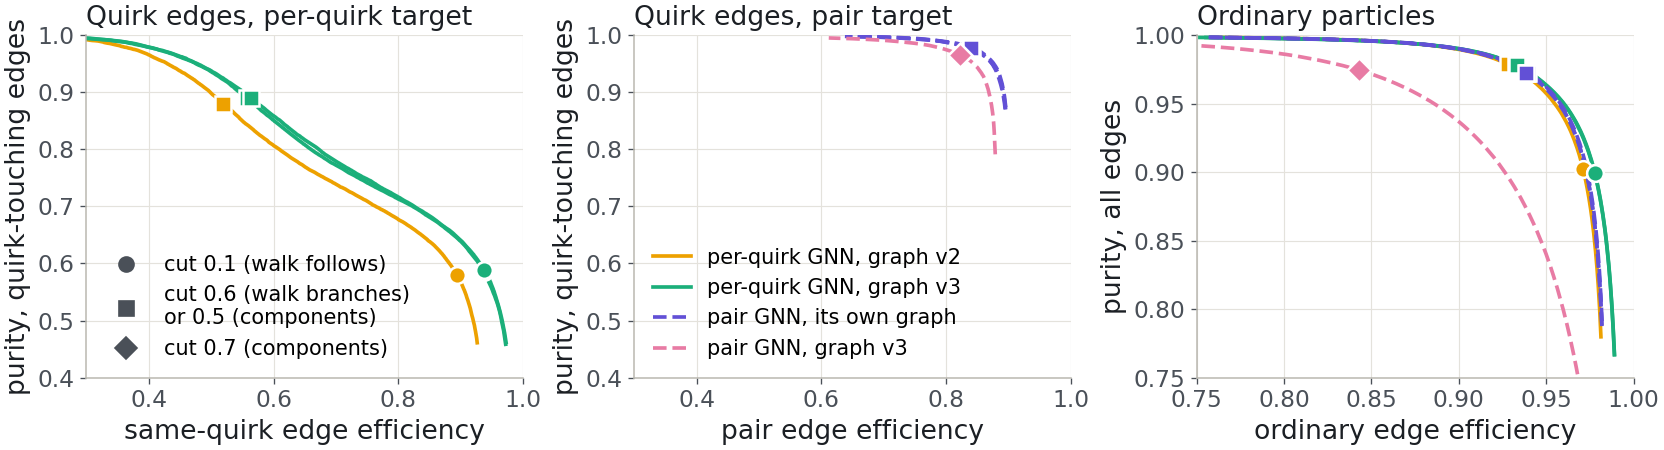
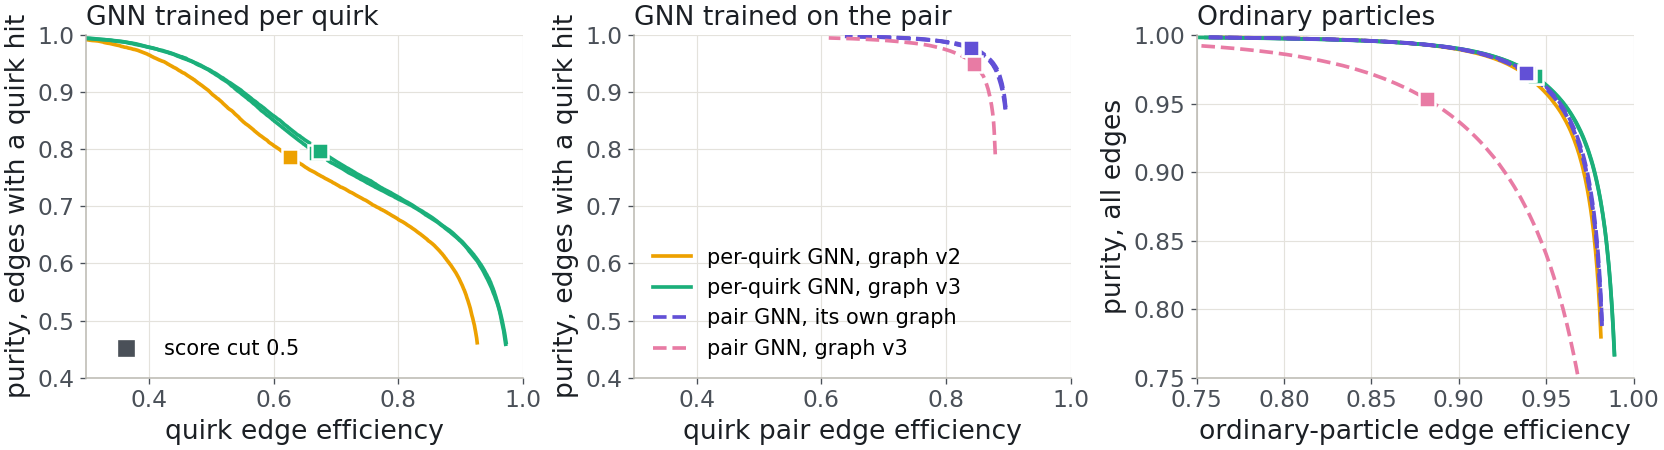
slides: edge efficiency/purity figure at score cut 0.5, plain labels

diff --git a/docs/talks/2026-10-26/scripts/fig_edge_eval.py b/docs/talks/2026-10-26/scripts/fig_edge_eval.py
@@ -27,10 +27,10 @@ CV = np.load(os.path.join(RES, "curves.npz"))
 CUTS = R["cuts"]
 
 GROUPS = {  # label, seeds, colour, linestyle, operating cuts
-    "pq_v2": ("per-quirk GNN, graph v2", ["v2"], "#eda100", "-", [0.1, 0.6]),
-    "pq_v3": ("per-quirk GNN, graph v3", ["v3_s0", "v3_s1"], "#1baf7a", "-", [0.1, 0.6]),
+    "pq_v2": ("per-quirk GNN, graph v2", ["v2"], "#eda100", "-", [0.5]),
+    "pq_v3": ("per-quirk GNN, graph v3", ["v3_s0", "v3_s1"], "#1baf7a", "-", [0.5]),
     "pair_own": ("pair GNN, its own graph", ["e2_s0", "e2_s1", "e2_s2"], "#6250d6", "--", [0.5]),
-    "pair_v3": ("pair GNN, graph v3", ["p3"], "#e87ba4", "--", [0.7]),
+    "pair_v3": ("pair GNN, graph v3", ["p3"], "#e87ba4", "--", [0.5]),
 }
 MK = {0.1: "o", 0.5: "s", 0.6: "s", 0.7: "D"}
 
@@ -79,12 +79,12 @@ def panel(ax, groups, xk, yk, title, xlabel, ylabel, xlim, ylim):
 def fig_main():
     setup(15)
     fig, axs = plt.subplots(1, 3, figsize=(13.87, 3.75), layout="constrained")
-    panel(axs[0], ["pq_v2", "pq_v3"], "eff_samequirk", "purity_quirk_same", "Quirk edges, per-quirk target",
-          "same-quirk edge efficiency", "purity, quirk-touching edges", (0.3, 1.0), (0.4, 1.0))
-    panel(axs[1], ["pair_own", "pair_v3"], "eff_pairchain", "purity_quirk_same", "Quirk edges, pair target",
-          "pair edge efficiency", "purity, quirk-touching edges", (0.3, 1.0), (0.4, 1.0))
+    panel(axs[0], ["pq_v2", "pq_v3"], "eff_samequirk", "purity_quirk_same", "GNN trained per quirk",
+          "quirk edge efficiency", "purity, edges with a quirk hit", (0.3, 1.0), (0.4, 1.0))
+    panel(axs[1], ["pair_own", "pair_v3"], "eff_pairchain", "purity_quirk_same", "GNN trained on the pair",
+          "quirk pair edge efficiency", "purity, edges with a quirk hit", (0.3, 1.0), (0.4, 1.0))
     panel(axs[2], list(GROUPS), "eff_ordinary", "purity_all_same", "Ordinary particles",
-          "ordinary edge efficiency", "purity, all edges", (0.75, 1.0), (0.75, 1.0))
+          "ordinary-particle edge efficiency", "purity, all edges", (0.75, 1.0), (0.75, 1.0))
     # model legend in the empty lower-left of the pair panel, marker legend in the per-quirk panel
     h, l = [], []
     for ax in axs:
@@ -93,8 +93,8 @@ def fig_main():
                 h.append(a_)
                 l.append(b_)
     axs[1].legend(h, l, loc="lower left", fontsize=12.5, handlelength=1.8)
-    mh = [axs[0].plot([], [], MK[c], color=C["ink2"], ms=9)[0] for c in (0.1, 0.6, 0.7)]
-    axs[0].legend(mh, ["cut 0.1 (walk follows)", "cut 0.6 (walk branches)\nor 0.5 (components)", "cut 0.7 (components)"],
+    mh = [axs[0].plot([], [], MK[c], color=C["ink2"], ms=9)[0] for c in (0.5,)]
+    axs[0].legend(mh, ["score cut 0.5"],
                   loc="lower left", fontsize=12.5)
     save(fig, "edge_eff_purity")
 
